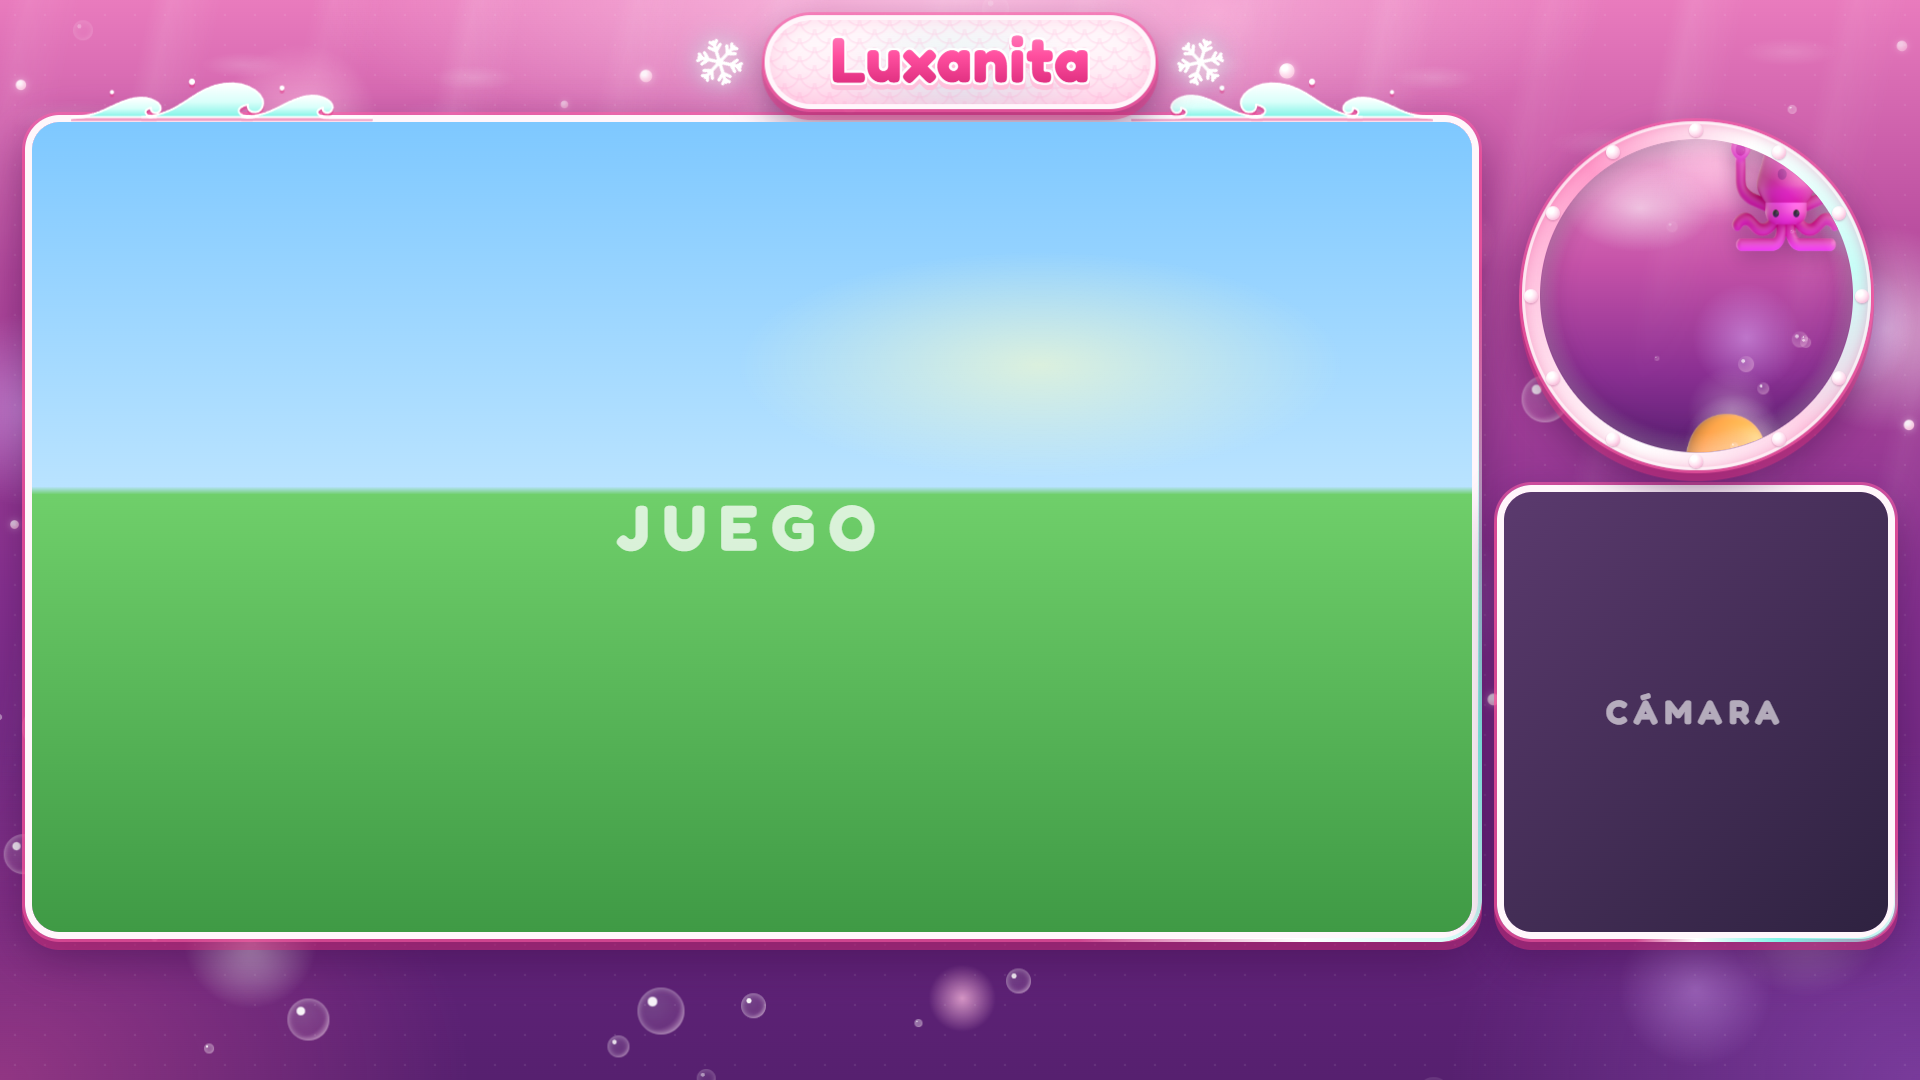
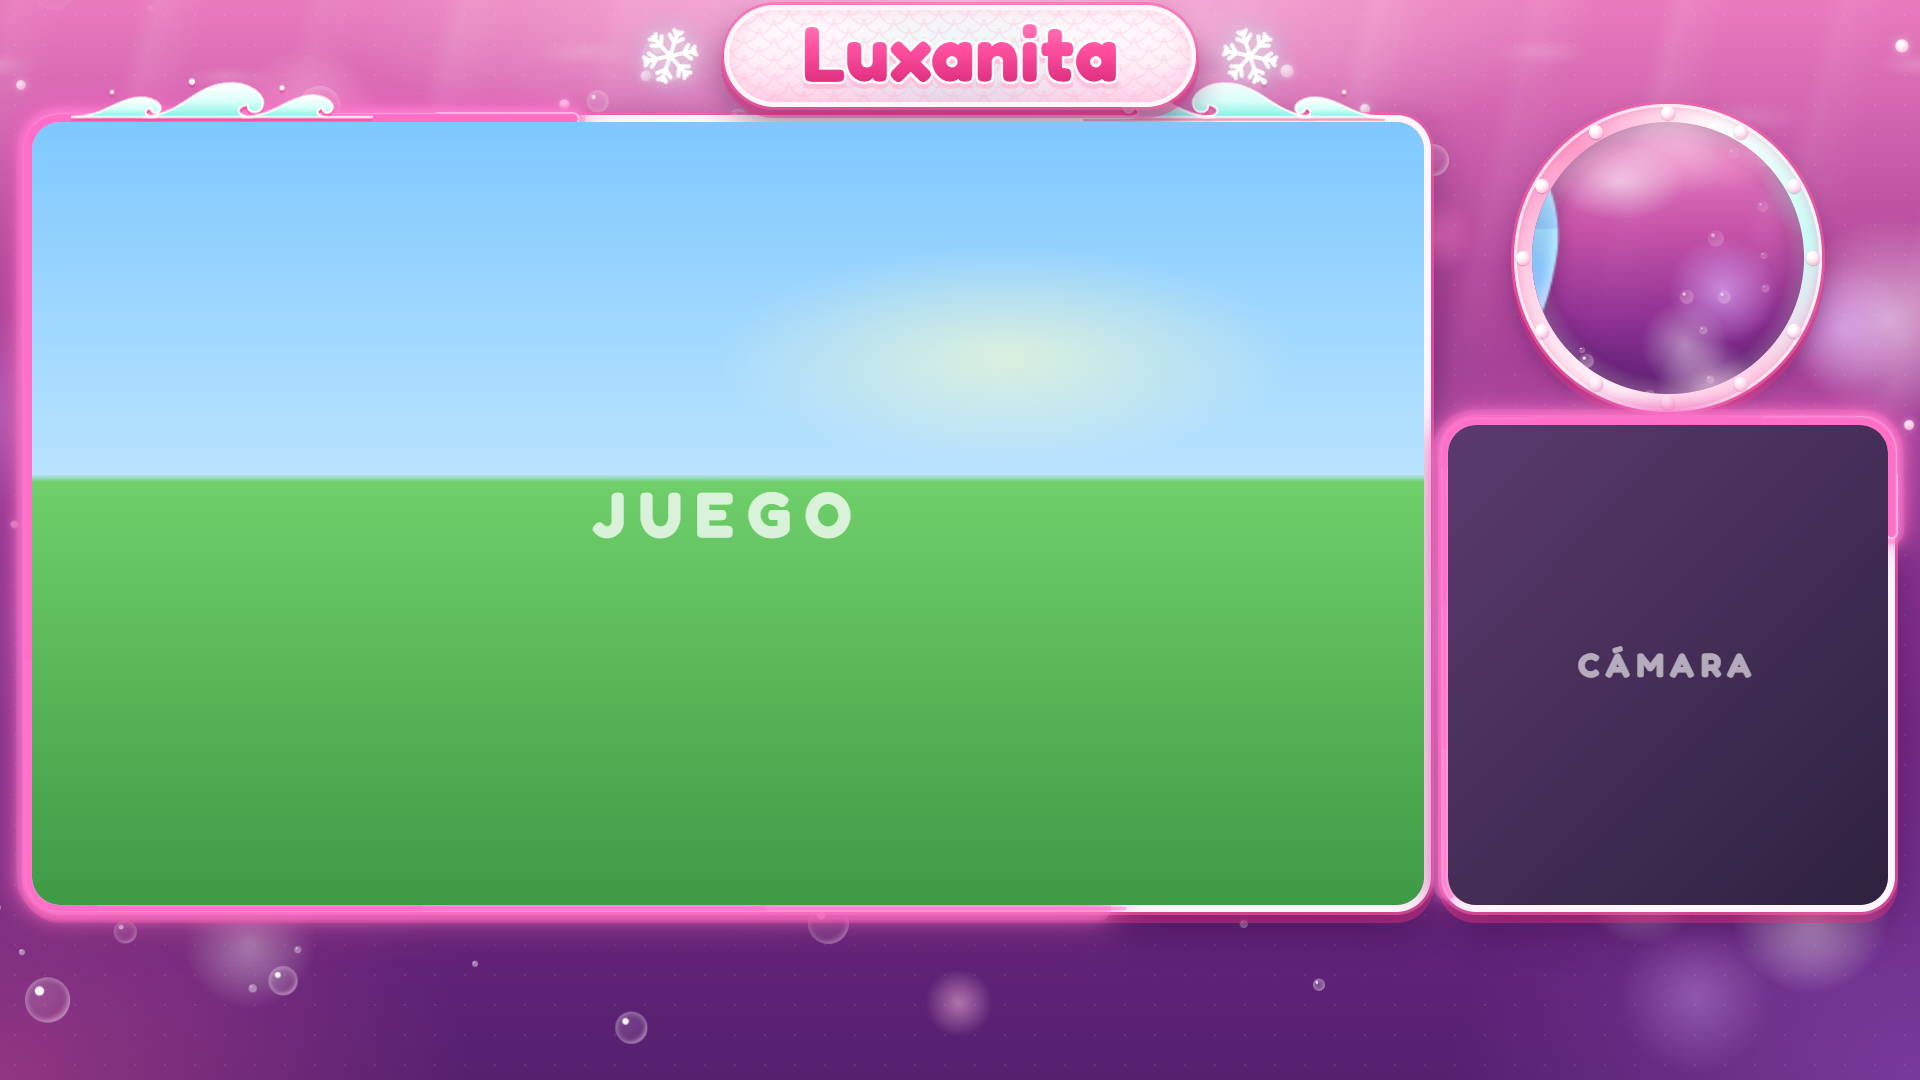
Overlay: cámara más grande (440x480) y juego 1392x783
Pensado para el cliente del LoL o el navegador, donde la cámara
importa más y se ve igual de pequeña en el móvil.

Changed region(s): [[0.0, 0.0, 1.0, 0.9778], [0.8125, 0.5806, 0.9375, 0.6722], [0.3125, 0.9167, 0.4062, 0.9778]]

diff --git a/overlay/overlay.html b/overlay/overlay.html
@@ -502,8 +502,8 @@ html.preview body { background: #1b0e2c; }
   // ===== Huecos (en píxeles de una pantalla 1920x1080) =====
   // Si los cambias, cambia también las posiciones en OBS (INSTRUCCIONES.txt).
   var LAYOUT = {
-    game: { x: 32,   y: 122, w: 1440, h: 810 },   // 16:9
-    cam:  { x: 1504, y: 492, w: 384,  h: 440 }    // casi cuadrada, un poco más alta que ancha
+    game: { x: 32,   y: 122, w: 1392, h: 783 },   // 16:9 (el cliente del LoL, 1280x720, cabe sin perder nitidez)
+    cam:  { x: 1448, y: 425, w: 440,  h: 480 }    // un poco más alta que ancha, alineada abajo con el juego
   };
   var R = 28;          // redondeo de las esquinas de los huecos
   var BORDER = 7;      // grosor del marco
